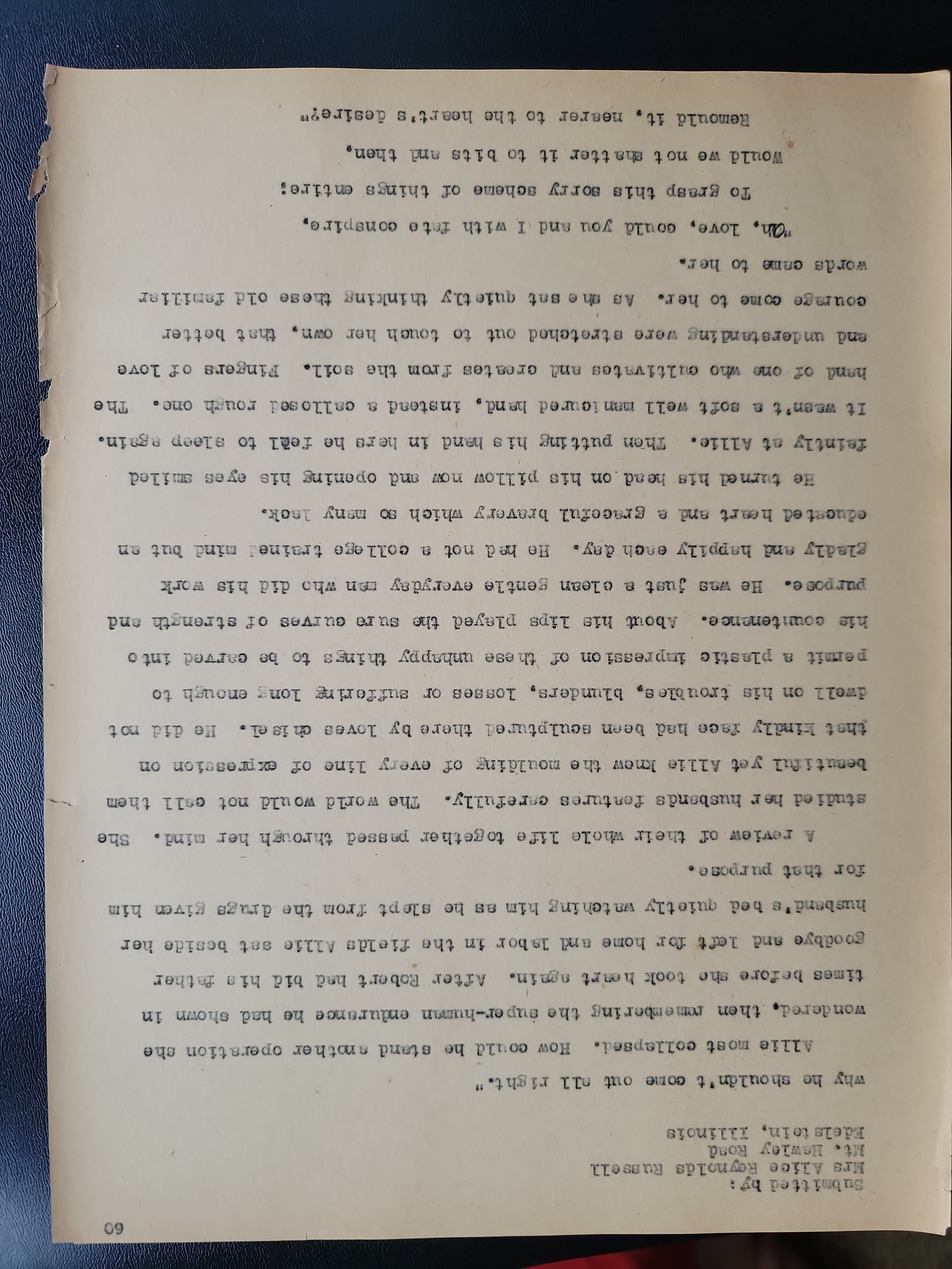
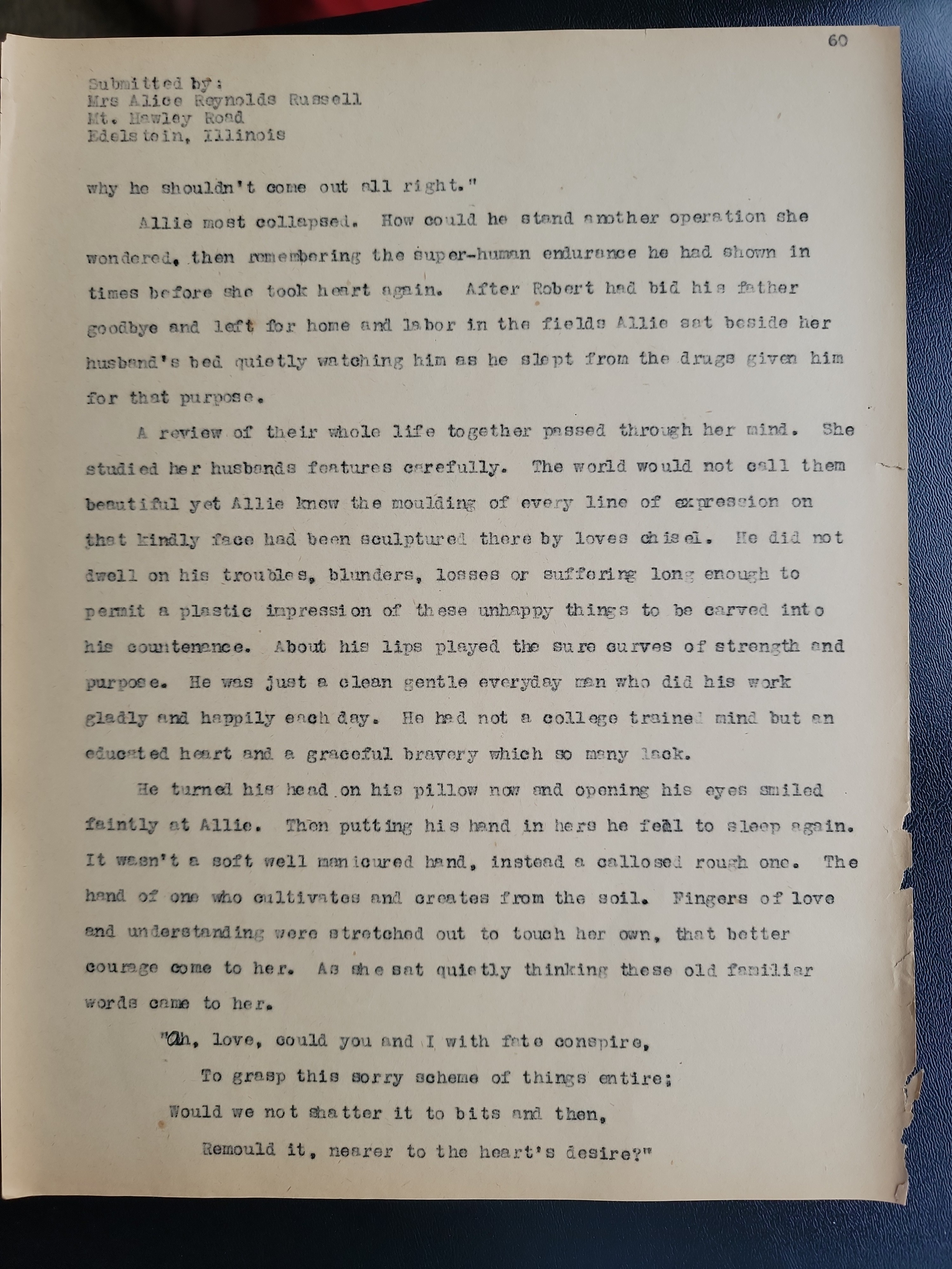
Phase 2 verification progress: batch 8 continued (multiple agents checkpointing)
Page 212 is a 20th confirmed blue-pencil instance. Also a second image
orientation fix appears here (page 224) alongside page 226 earlier.

Claude-Session: https://claude.ai/code/session_01MLbLpPqcShu7BR6bmmabLA

diff --git a/transcript/page-201.md b/transcript/page-201.md
@@ -3,7 +3,7 @@ page: 201
 typed_page: 37
 book: 2
 image: pages/originals/page-201.jpg
-has_pencil: false
+has_pencil: true
 has_table: false
 illegible_spots: 0
 needs_review: false
@@ -22,12 +22,12 @@ come swaying into the house.  "I'm so sick," he said and throwing himself
 on the couch he cried, "Call the Doctor quick."  Before the Doctor
 arrived Allie had helped him to his bed.
      "It's the "flu" that wicked flue", said the Doctor handling Allie
-the termometer to read.  It stood at 105 degrees.  He gave strict orders
+the termometer⟦strikeover: "e" overtyped⟧ to read.  It stood at 105 degrees.  He gave strict orders
 for his treatment and left with a grave face.   "Call me at once if he
 shows any signs of being worse," he said as he left.
      His head pained him until he could hardly endure it.  Allie did
 just as the Doctor directed but at eight o'clock he became delirious.
-She called the Doctor.  At that time the flu⟦strikeover: stray letter x-ed out after "flu"⟧ was sweeping the country
+She called the Doctor.  At that time the flu⟦pencil-delete⟧ was sweeping the country
 from coast to coast.  Doctors drove from place to place for days without
 sleep.  They were rushed beyond their strength trying to give relief
 to the suffering.
@@ -52,8 +52,21 @@ every day and washed.  Nothing was allowed sent to a laundry from a
 - "surprized", "handling Allie / the termometer" (for "handing ... thermometer"),
   "that wicked flue", "concious", "unconciousness", and "What would she do!"
   are all as typed.
-- After "the flu" (line "At that time the flu was sweeping...") a stray
-  character was struck out by the typewriter.
 - A faint dot after "sent" in the last line ("allowed sent to a laundry")
   may be a stray period or a paper speck; transcribed without it.
-- No pencil marks found on this page.
+- Verified: 2026-07-07 — two corrections. (1) Reclassified the mark after
+  "the flu" (line "At that time the flu was sweeping...") from an ordinary
+  typewriter strikeover to a pencil deletion: RGB sampling of the raw
+  photo shows the mark is blue-shifted (R-B ≈ -8) against the same-line
+  typed-ink baseline (R-B ≈ +2 to +8), and its hatched/scribbled texture
+  doesn't match any typewriter glyph. The character(s) it obscures are
+  illegible under the pencil scribble, so no typed text could be
+  recovered; has_pencil set to true. (2) Added a missed overtype marker on
+  "termometer" (the "e" is heavily double-struck/bolded compared to
+  clean type elsewhere on the page) — this one sampled neutral/black
+  (R-B ≈ +0.7), consistent with an ordinary typewriter correction, not
+  pencil, so it was left as a strikeover. All three "Johnie" occurrences
+  checked for a pencil "Johnnie" correction — none found. All dialogue
+  quote marks (including the nested "It's the "flu" that wicked flue","
+  line) confirmed as double quotes throughout, matching the transcript.
+  Rest of the page checked against the photo and confirmed accurate.

diff --git a/transcript/page-212.md b/transcript/page-212.md
@@ -3,7 +3,7 @@ page: 212
 typed_page: 48
 book: 2
 image: pages/originals/page-212.jpg
-has_pencil: false
+has_pencil: true
 has_table: false
 illegible_spots: 0
 needs_review: false
@@ -28,7 +28,7 @@ lawn (or could we call it a lawn) although it had not felt⟦strikeover: "f" ove
 a lawn mower's sharp blades for years (if ever), It could be made
 beautiful in a years time.  Allie was sure of that.  It was so large and
 had just the right slope.  The trees were beautiful, great tall old
-maples flanking each side of the lawn,⟦strikeover: as if⟧ reaching out great arms as
+maples flanking each side of the lawn, as if⟦pencil-delete⟧ reaching out great arms as
 if to protect and shelter this pitiful old structure.
      Oh! now she finds her garden spot.  A level space laying north of
 the lawn and extending to the road side.  Right now she could see it
@@ -52,8 +52,25 @@ Lonesome for something - she didn't quite know what.  They were all men -
 - "possiblities", "most reaching the floor" (apparently for "almost"),
   "transomes", "a years time" (no apostrophe), and the closing quote with
   no opening quote in "They are all men."" are as typed.
-- After "lawn," the typed words "as if" are struck out by the typewriter;
-  the sentence resumes with "reaching out great arms as / if to protect".
+- After "lawn," the typed words "as if" are struck through; the sentence
+  resumes with "reaching out great arms as / if to protect" (the author
+  evidently caught the duplicated "as if ... as if" and cut the first
+  one). Best-guess reading of the struck words is "as if".
 - "(if ever), It could be made": capital "I" mid-sentence after the comma,
-  as typed (the "I" is struck heavily/overtyped).
-- No pencil marks found on this page.
+  as typed (the "I" is struck heavily/overtyped in plain black ink —
+  ordinary double-struck typewriter character, not pencil).
+- Verified: 2026-07-07 — reclassified the "as if" strike-through from
+  ordinary typewriter strikeover to pencil deletion (⟦pencil-delete⟧),
+  and set has_pencil: true. Pixel-level color check against same-page
+  ink baselines: the "as if" mark measures RGB≈(82,82,87), hue≈236°
+  (blue) with R−B≈−5, while the "felt"/"cried" typewriter overtypes and
+  surrounding typed text all measure hue≈25-38° (black/warm) with
+  R−B≈+4 to +19. The mark is a solid hand-scribbled band rather than a
+  typed "xxxx" pattern, consistent with blue pencil rather than a
+  typewriter strikeover. All other strikeovers on this page ("felt",
+  "cried", the heavy capital "I") were checked the same way and remain
+  plain black ink — no reclassification needed for those. Also checked
+  the closing quote with no opening quote in "They are all men."" — this
+  is genuinely typed that way with no missed opening quote nearby;
+  preserved as typed per rule. The instance of "Johnie" on this page was
+  checked for a pencil "n" insertion — none found.

diff --git a/transcript/page-223.md b/transcript/page-223.md
@@ -58,3 +58,4 @@ inflammation first," and seeing the question in Allie's eyes he added,
 - Left edge of the sheet has a notch torn out at mid-height; no text
   affected.
 - No pencil marks found on this page.
+- Verified: 2026-07-07 — transcript confirmed accurate against photo, no changes needed. Checked both "Johnie" occurrences (no pencil "n" insertion on this page), both strikeover overtypes ("repairs" and "inevitable" — black typewriter ink, not blue pencil, so strikeover classification is correct), the double-space after "year" in the opening line, and quote-mark types throughout (all double quotes, correctly rendered). Image confirmed right-side up.
